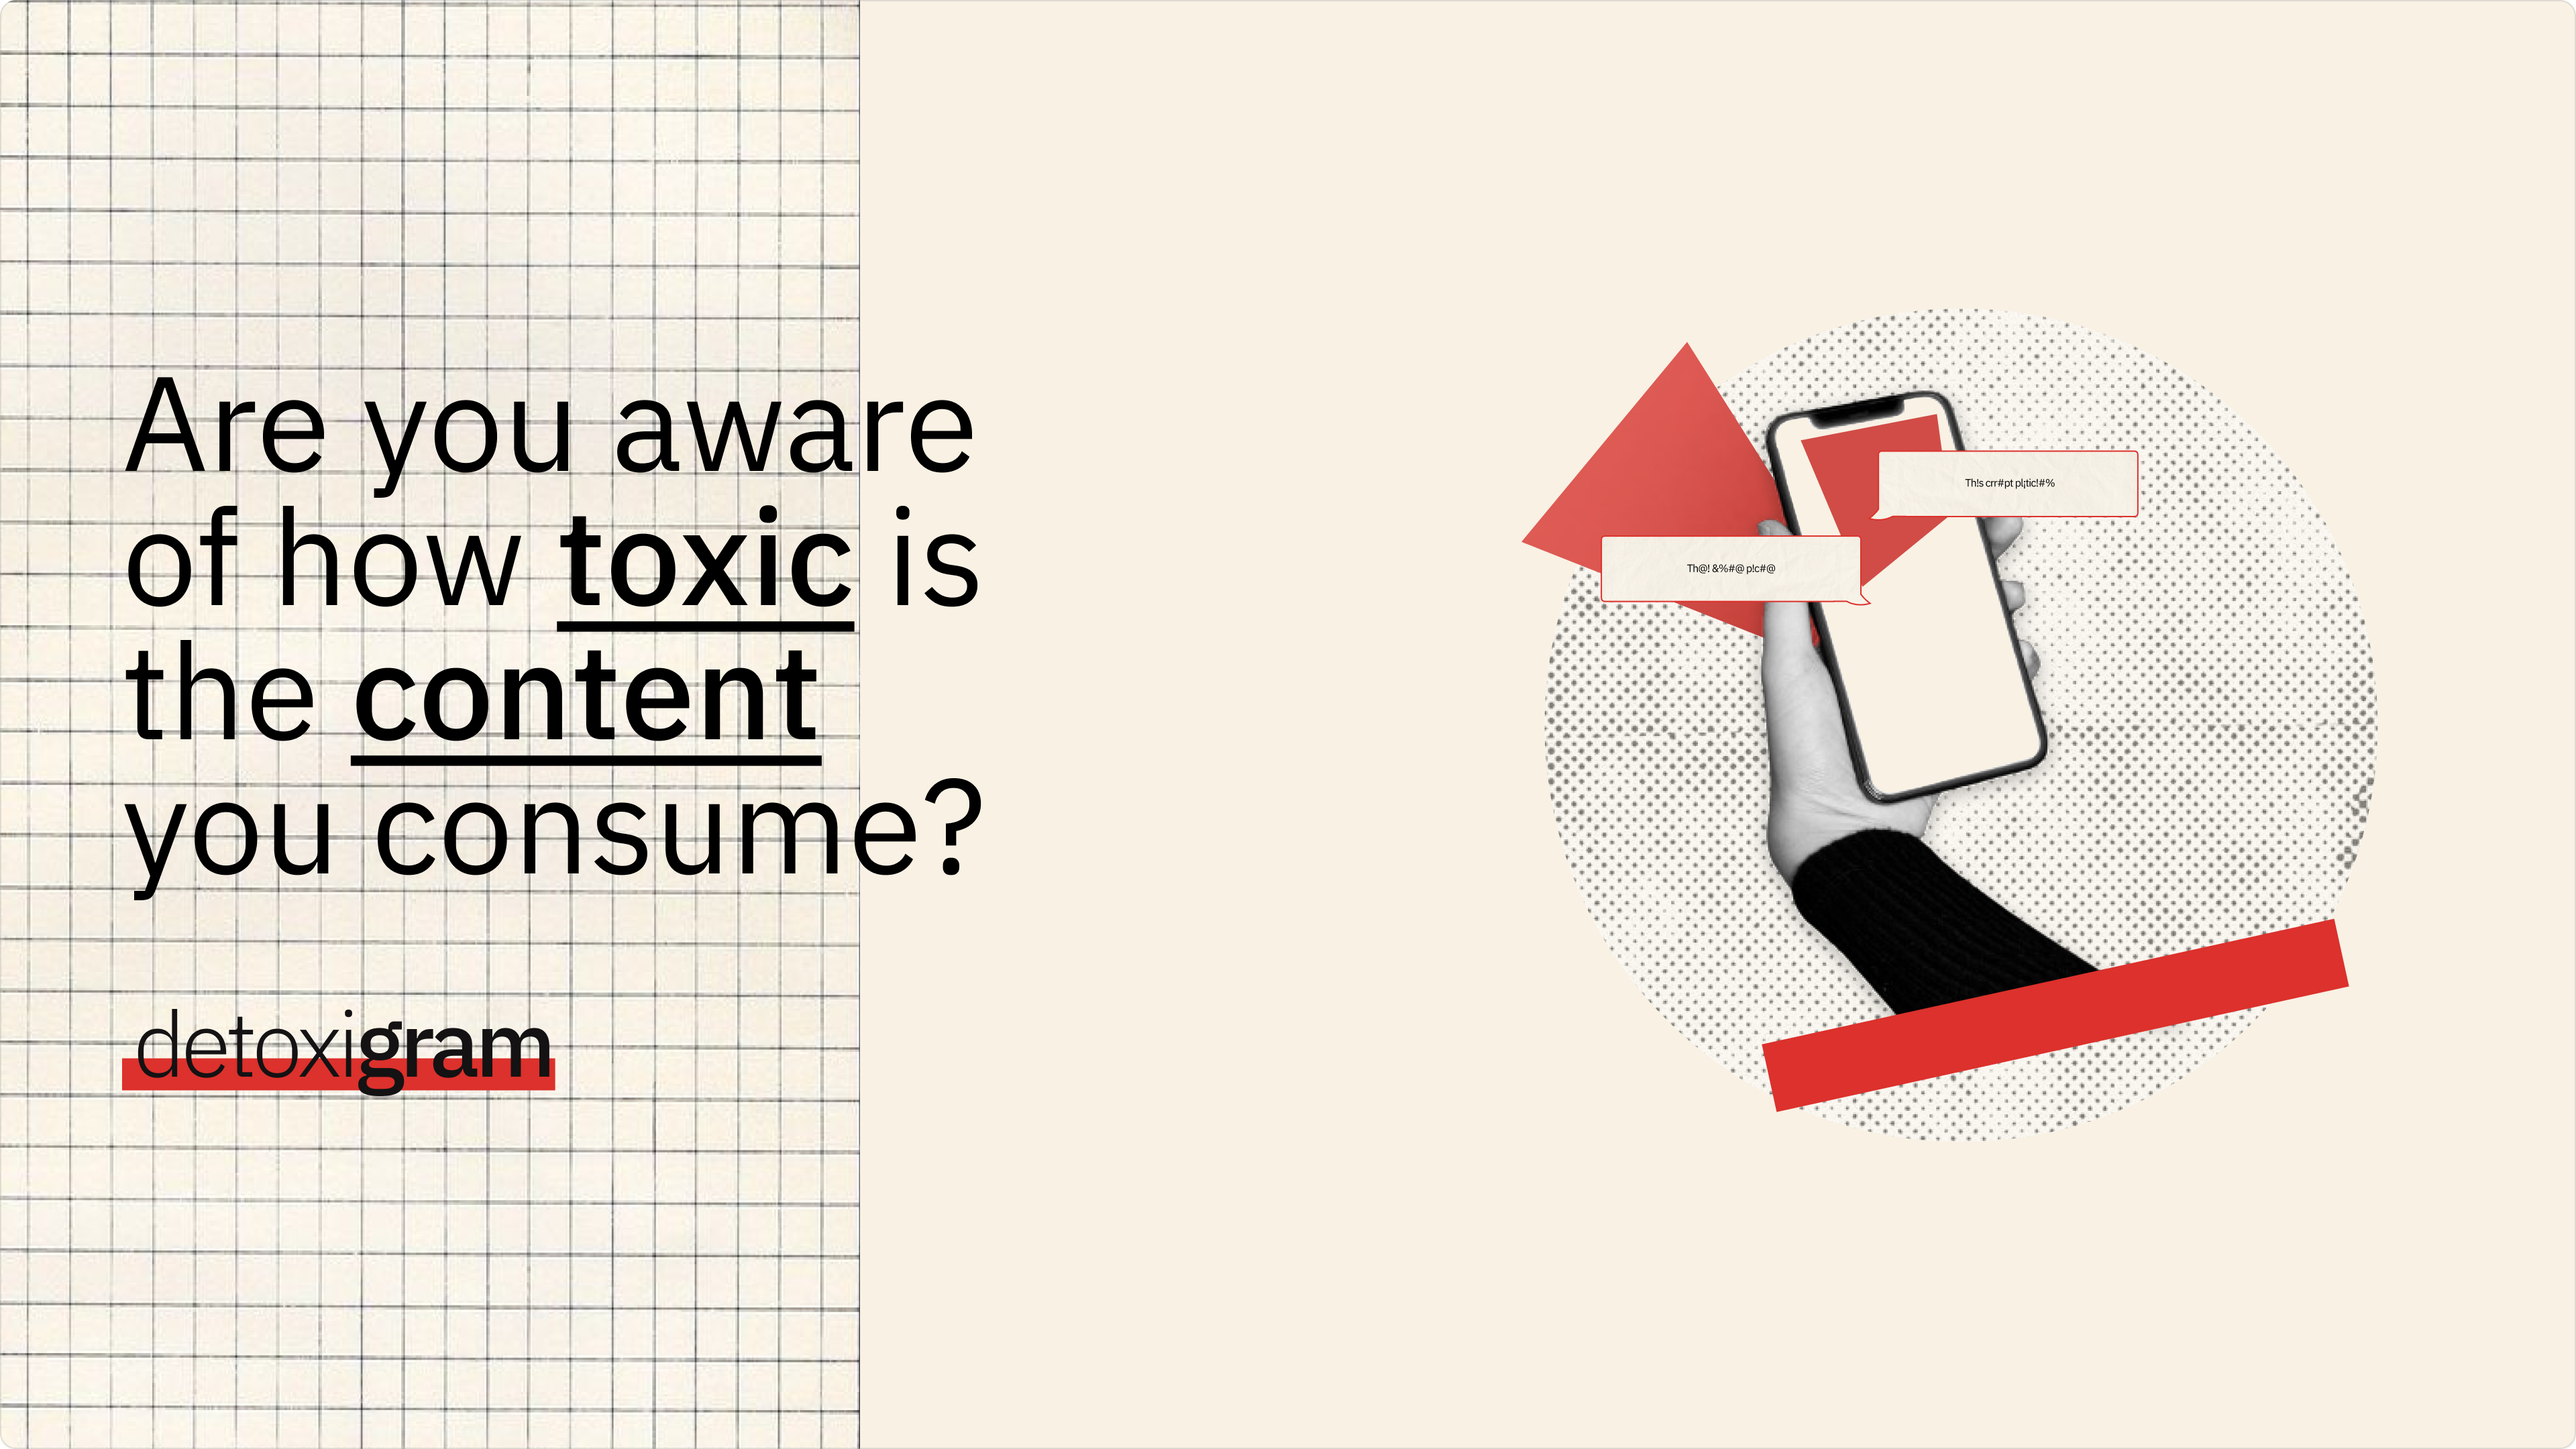
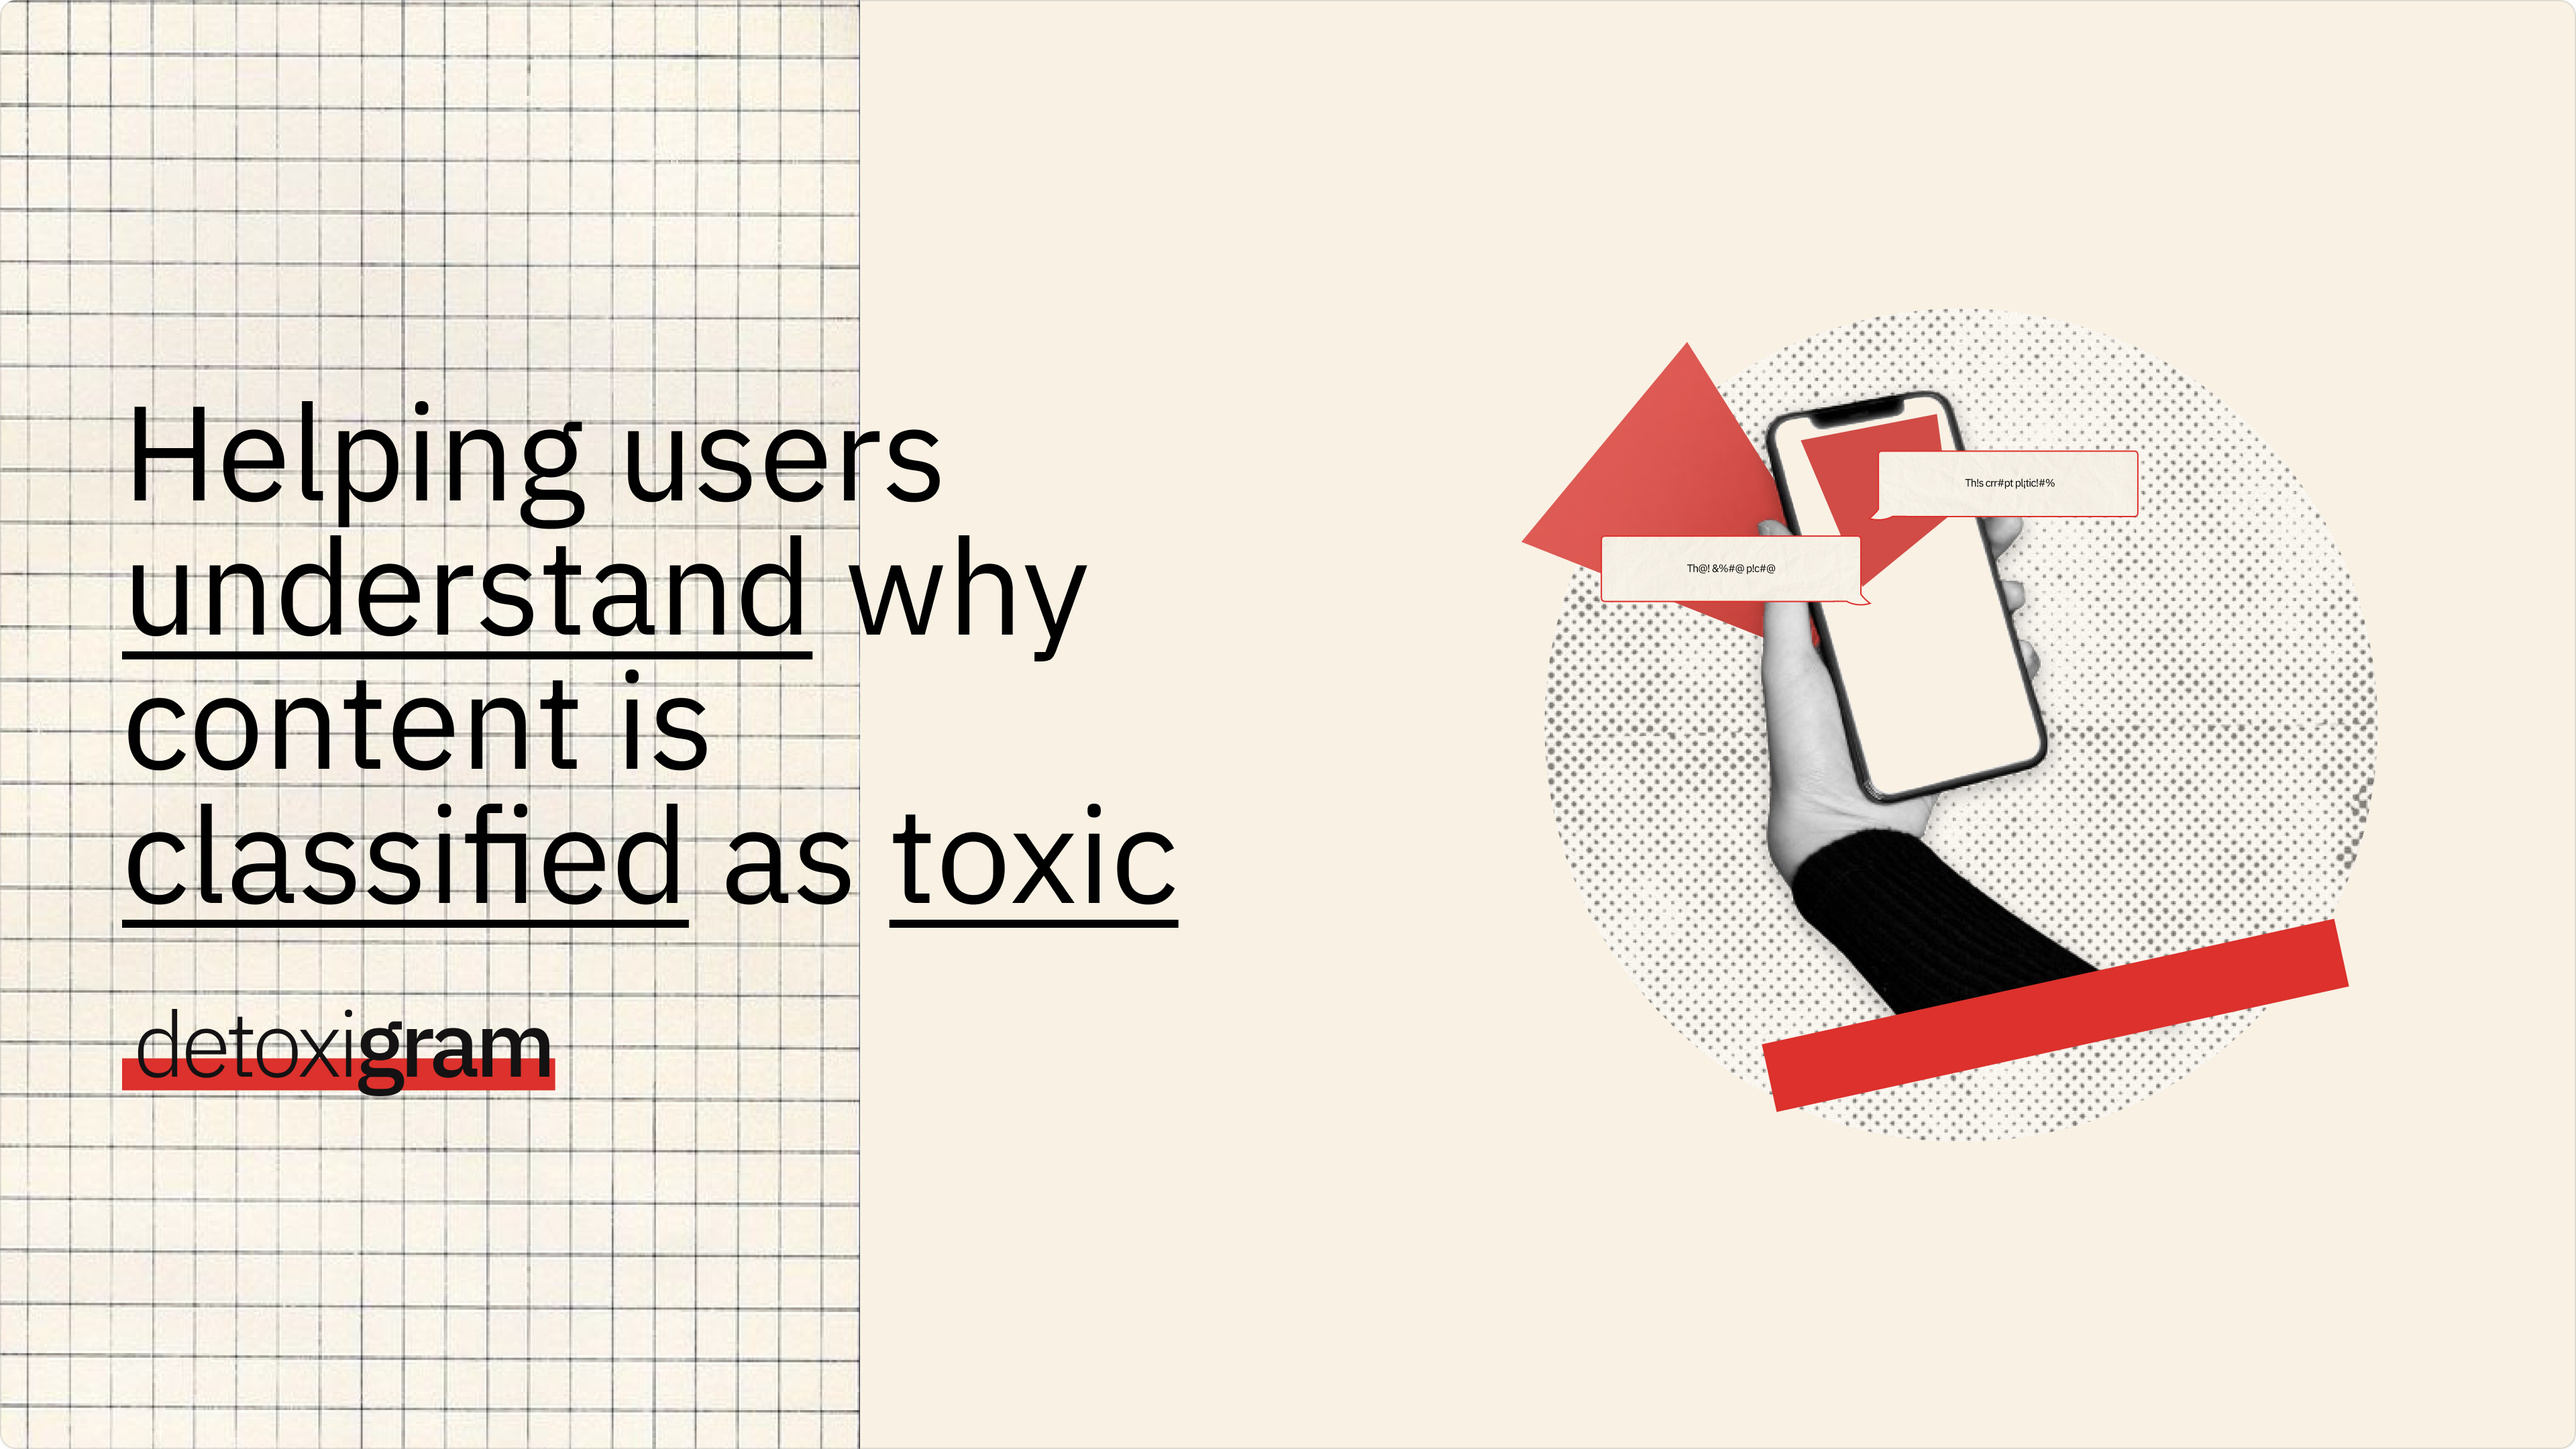
Slogan update

Changed region(s): [[0.0312, 0.2481, 0.4688, 0.6514]]

diff --git a/Landing-Detoxigram/app/layout.tsx b/Landing-Detoxigram/app/layout.tsx
@@ -22,11 +22,11 @@ export const metadata: Metadata = {
     },
     openGraph: {
         title: SITE.title || "Detoxigram",
-        description: SITE.desc || "Are you aware of how toxic is the content you consume?",
-        authors: SITE.author || "CIAN Di Tella",
+        description: SITE.desc || "Helping users understand why content is classified as toxic",
+        authors: SITE.author || "Detoxigram",
         images: [
             {
-                url: SITE.ogImage || "https://nextjs.org/og.png", // Must be an absolute URL
+                url: SITE.ogImage || "https://nextjs.org/og.png", 
                 width: 1200,
                 height: 630
             }

diff --git a/Landing-Detoxigram/config.ts b/Landing-Detoxigram/config.ts
@@ -3,7 +3,7 @@ import { Site } from "./types";
 export const SITE: Site = {
     siteUrl: "https://detoxigram.com/", 
     author: "CIAN Di Tella",
-    desc: "Are you aware of how toxic is the content you consume?",
+    desc: "Helping users understand why content is classified as toxic",
     title: "Detoxigram",
     ogImage: "/portada.png",
     keywords:
